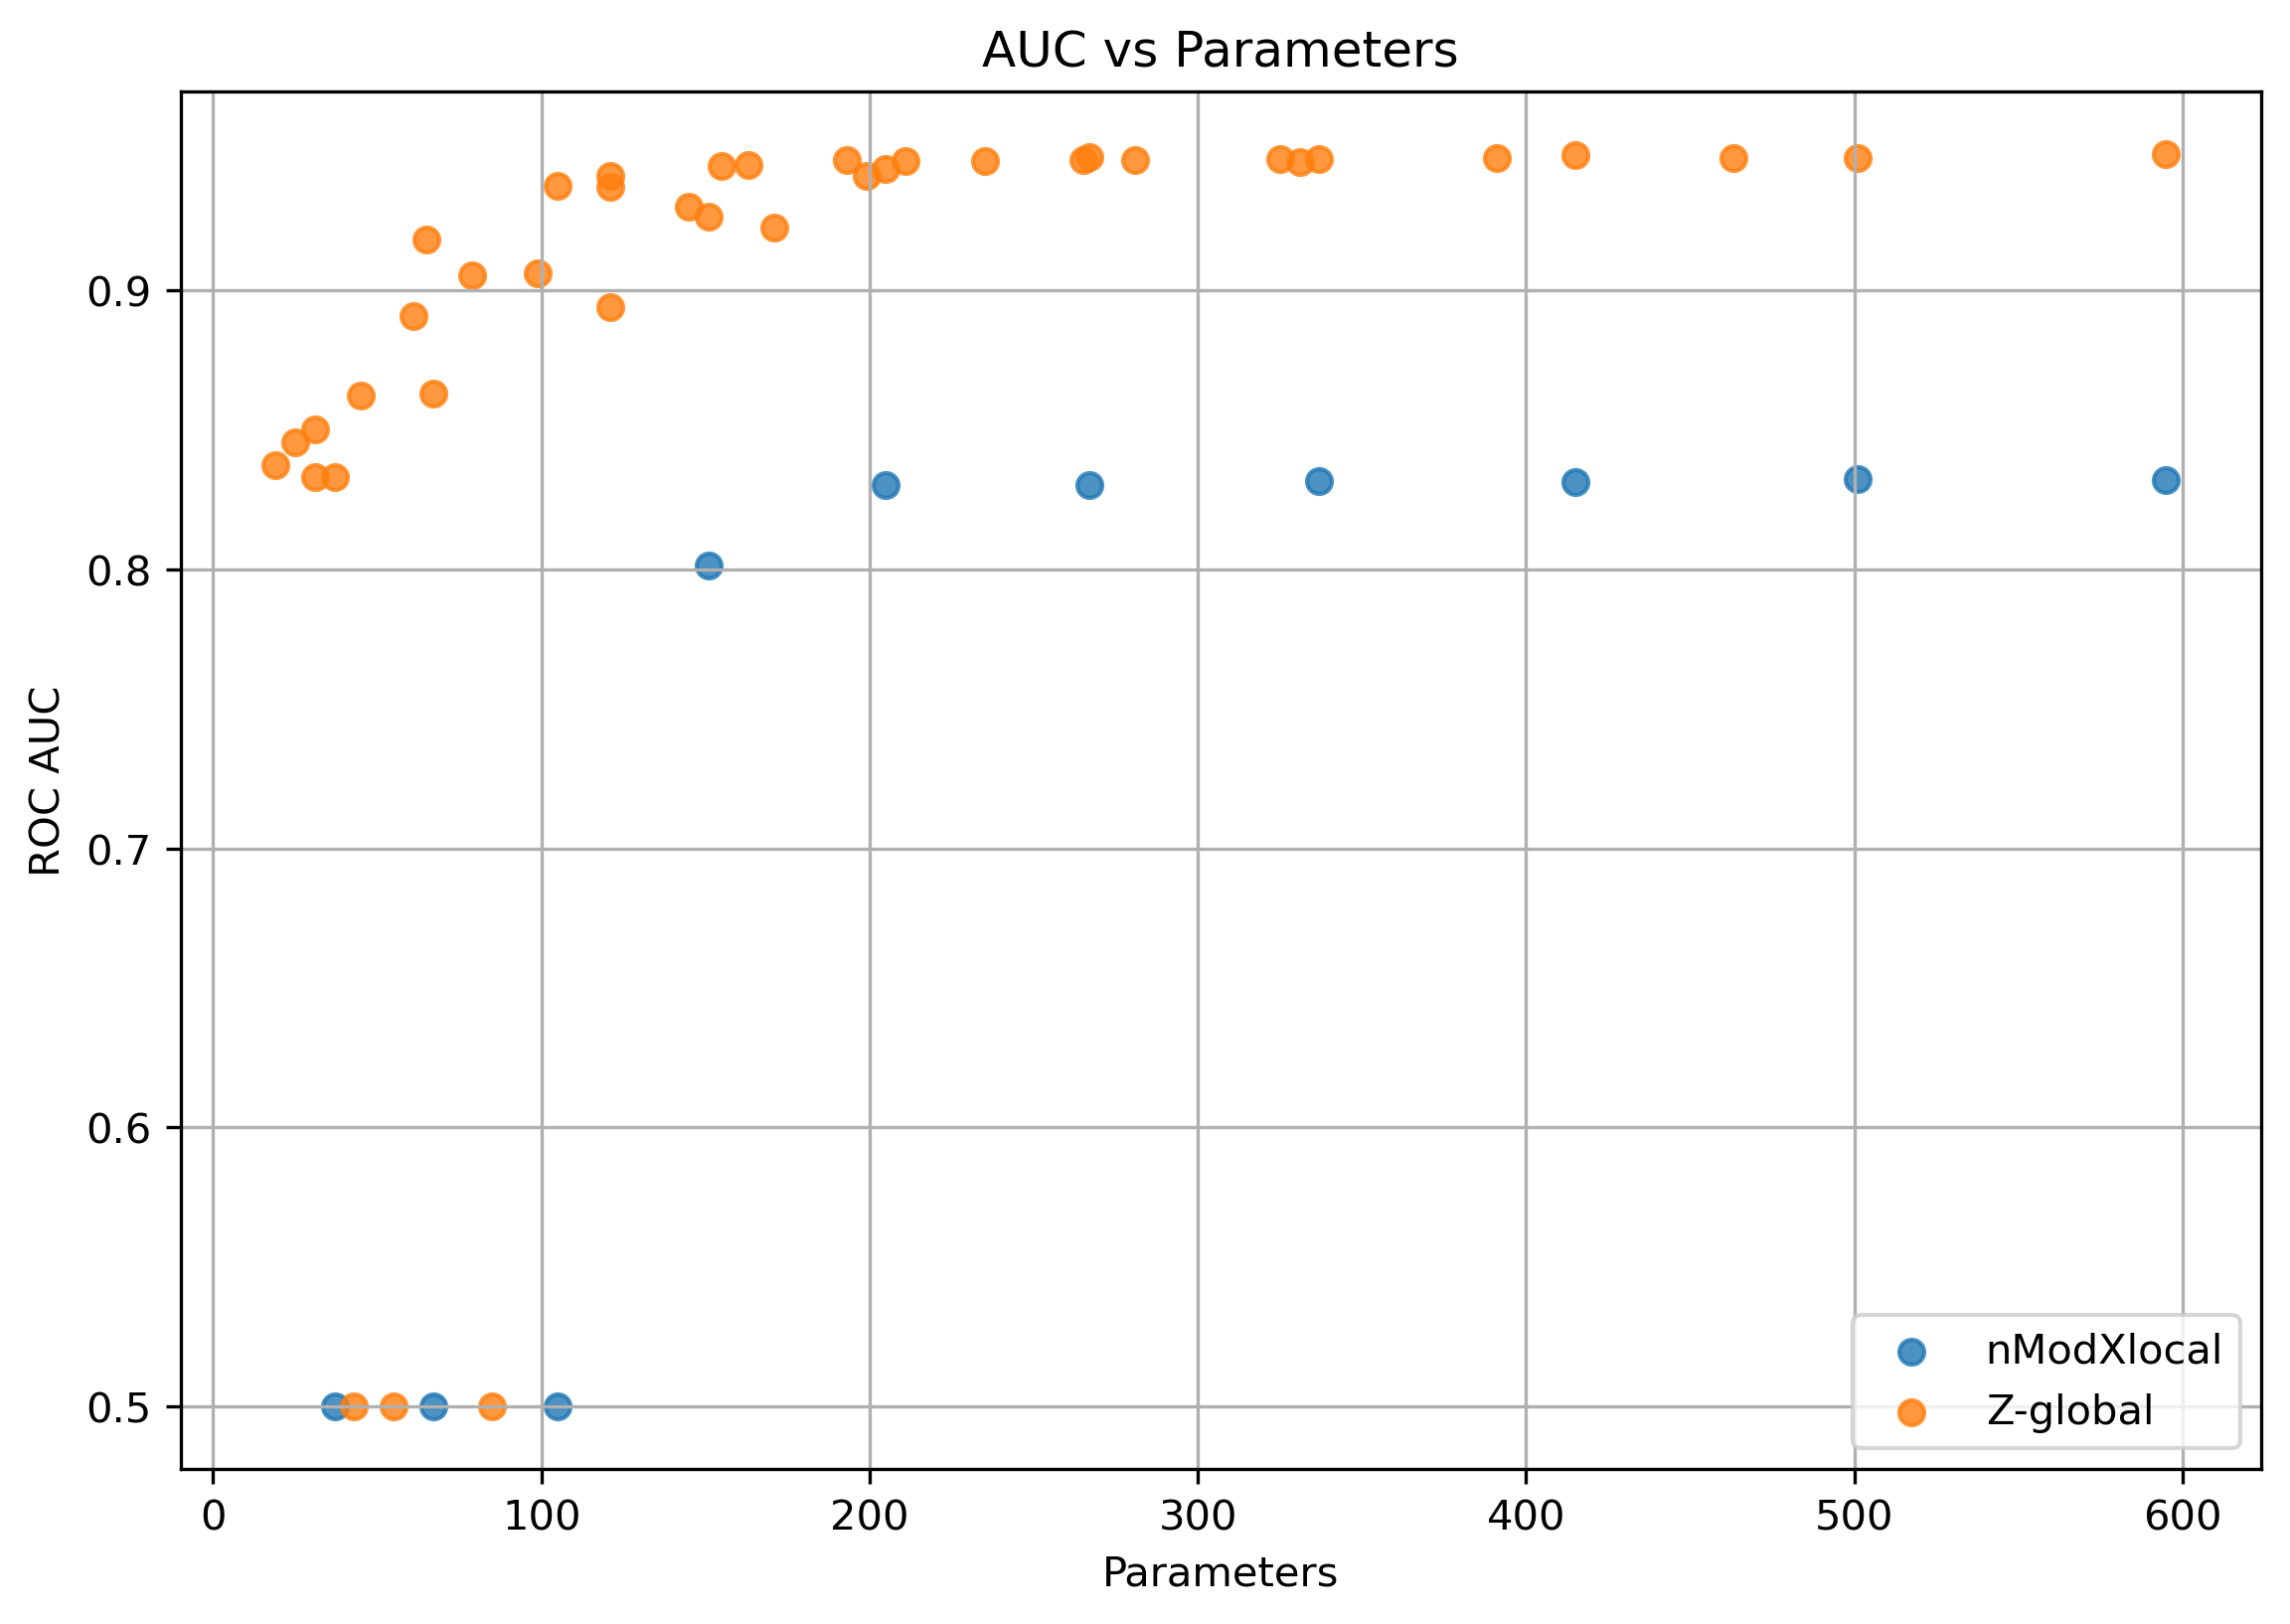
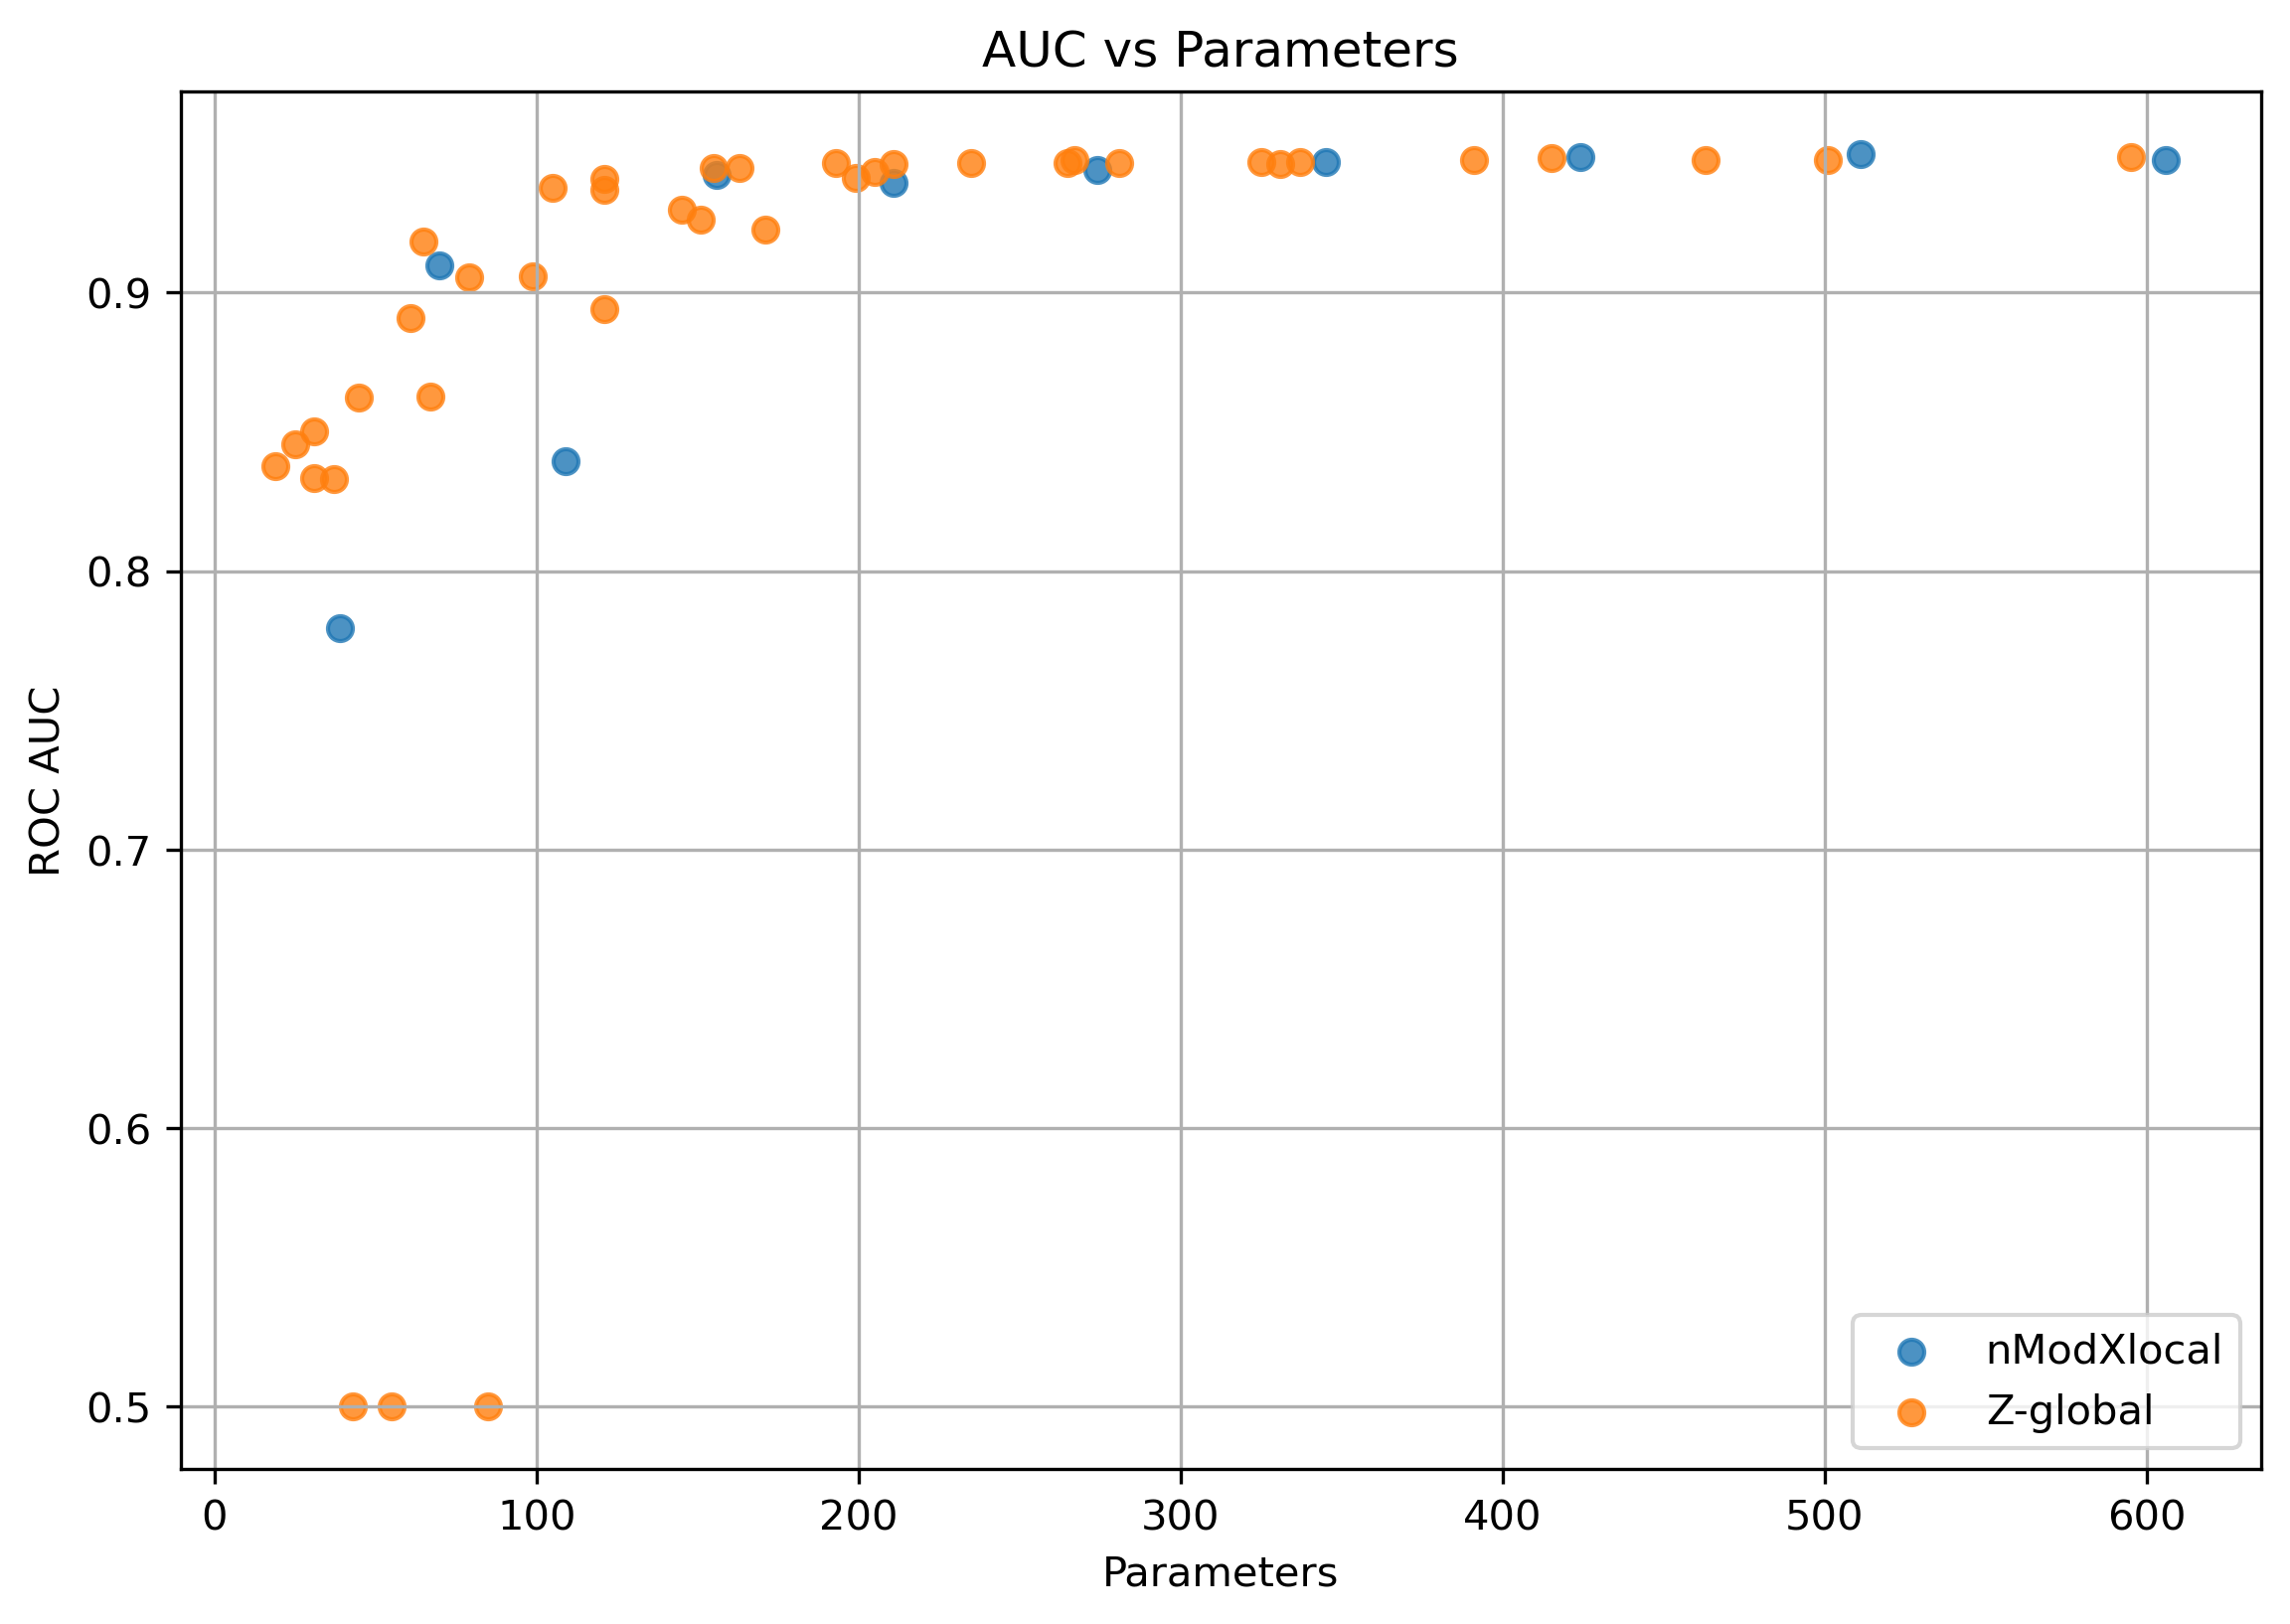
pls

diff --git a/ryan/model1.py b/ryan/model1.py
@@ -633,8 +633,12 @@ class Model1(SmartPixModel):
 
             model = tf.keras.Model(inputs=inputList, outputs=output)
 
+            
+            lr = hp.Float('learning_rate', min_value=1e-4, max_value=1e-2, sampling='log')
+
+
             model.compile(
-            optimizer="adam",
+            optimizer=Adam(learning_rate = lr),
             loss="binary_crossentropy",
             metrics=["binary_accuracy"],
             run_eagerly  = True 